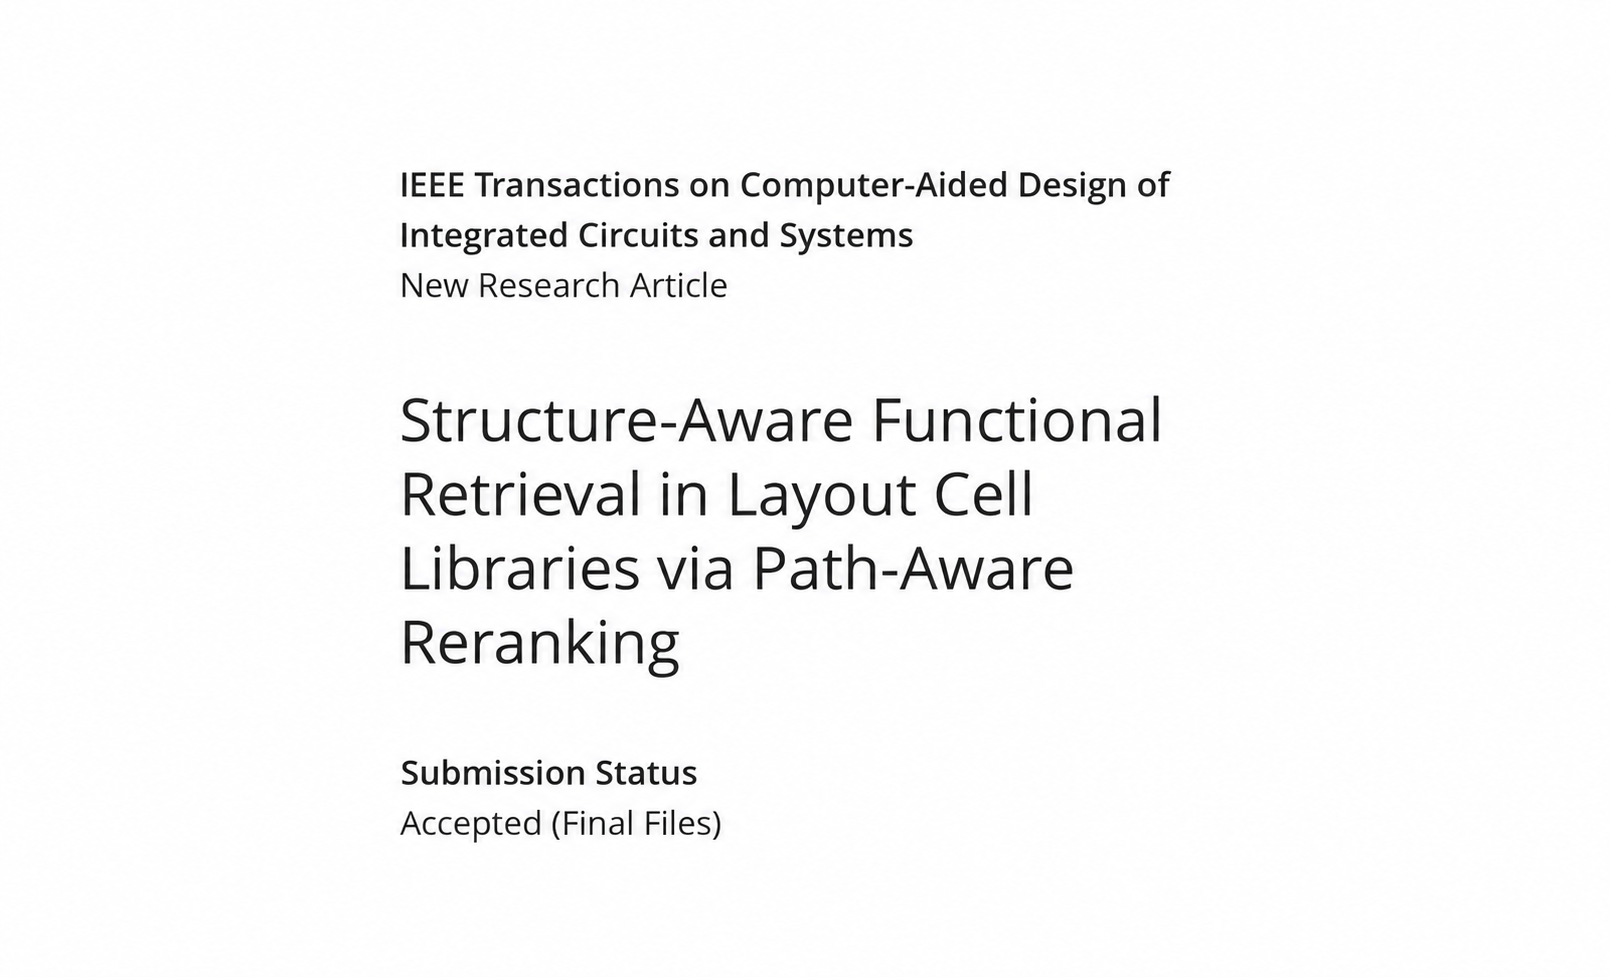
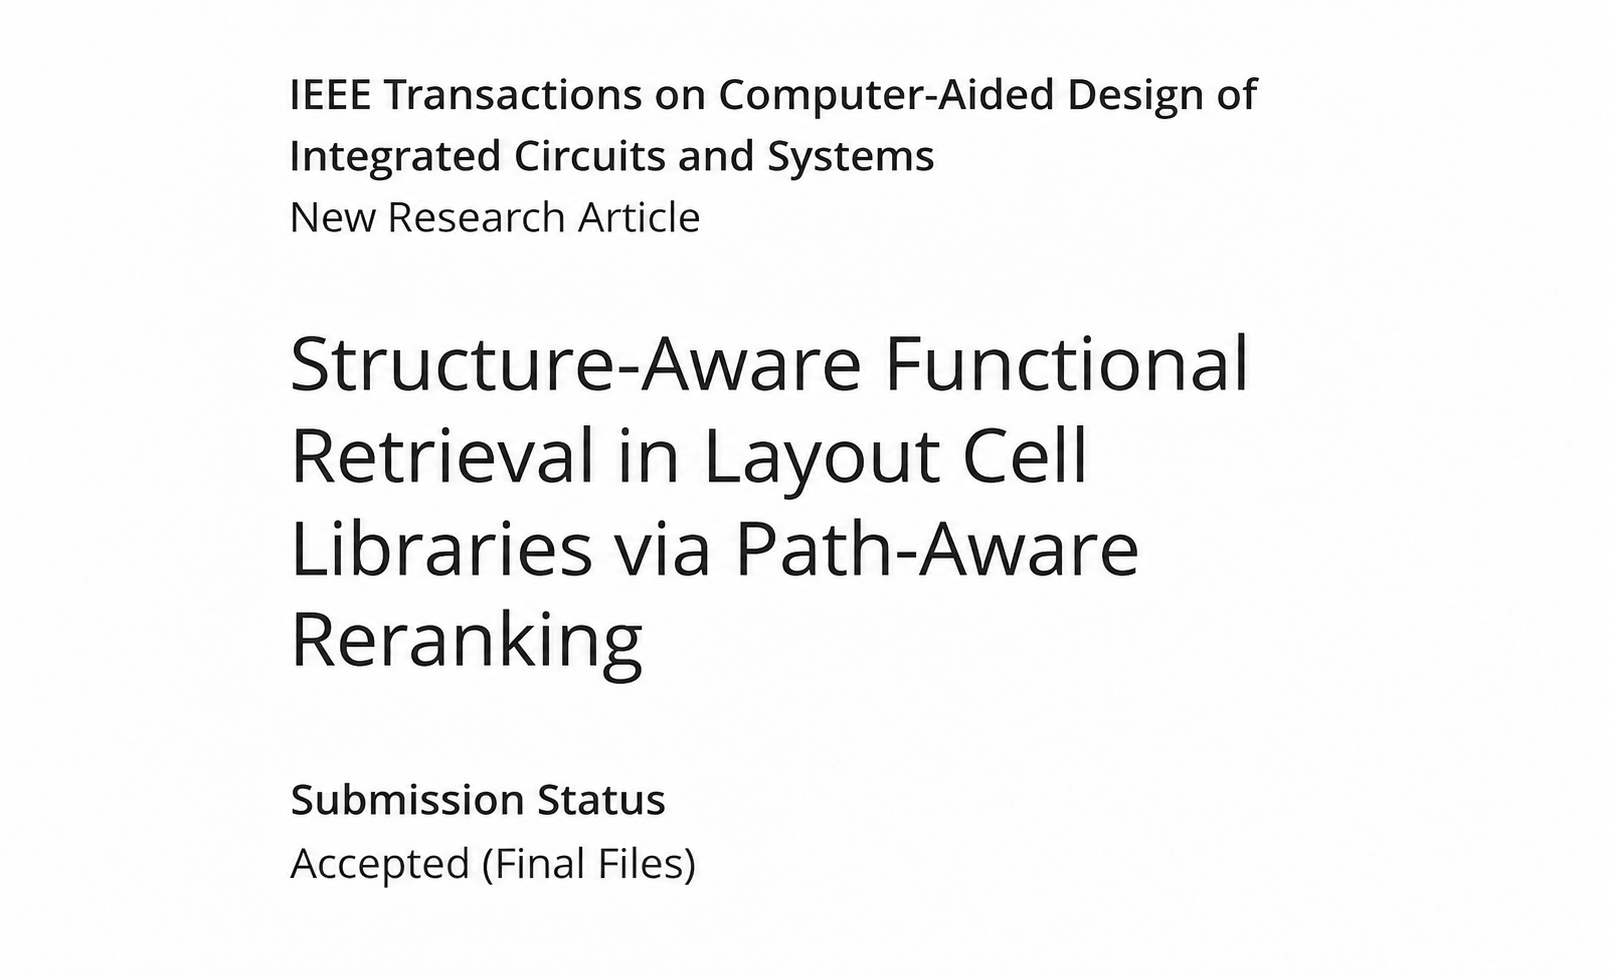
fix의 fix

Changed region(s): [[0.1865, 0.3378, 0.7769, 0.7062], [0.1865, 0.0614, 0.7769, 0.3071], [0.1865, 0.7677, 0.4661, 0.9212]]

diff --git a/src/pages/test/components/LandingPopup.js b/src/pages/test/components/LandingPopup.js
@@ -169,13 +169,11 @@ const PopupImageFrame = styled.figure`
   width: 100%;
   height: 100%;
   margin: 0;
-  padding: 14px;
+  padding: 0;
   display: grid;
   overflow: hidden;
-  border: 1px solid #d5dce8;
-  border-radius: 6px;
-  background: #f3f5f8;
-  box-shadow: 0 8px 20px rgba(17, 50, 117, 0.08);
+  border: 0;
+  background: #ffffff;
   box-sizing: border-box;
 `;
 
